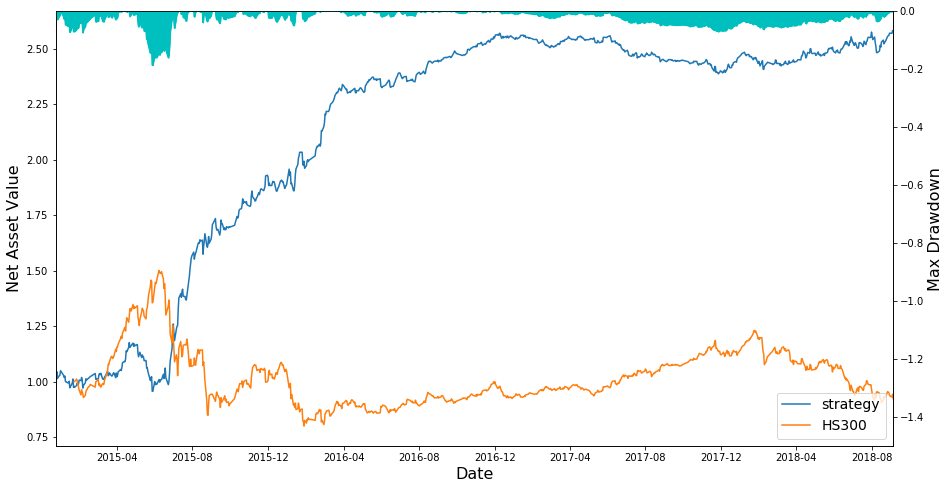
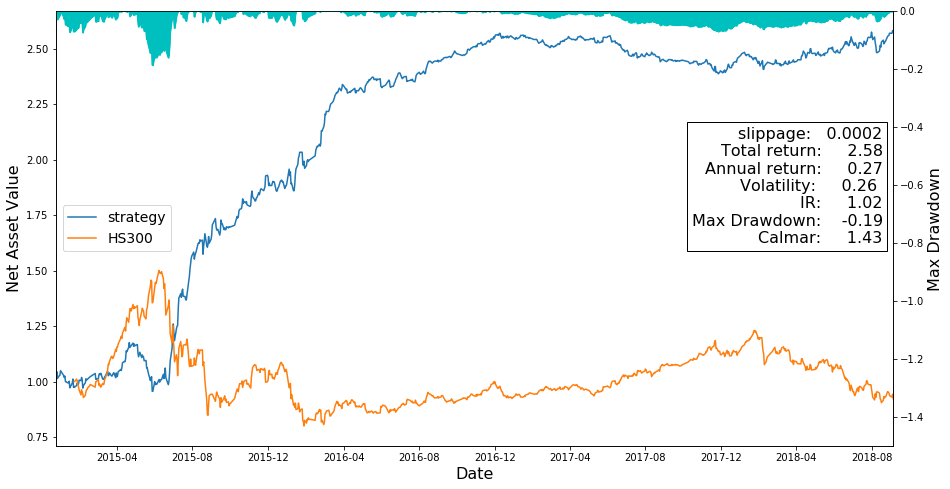
change

Changed region(s): [[0.7021, 0.2454, 0.9463, 0.5215], [0.0611, 0.4294, 0.1832, 0.5215], [0.8242, 0.7975, 0.9463, 0.8896]]

diff --git a/v_svm.py b/v_svm.py
@@ -53,12 +53,7 @@ class SVM():
         #将特征标准化
         for field in attr.columns:
             attr[field] = (attr[field] - attr[field].mean()) / attr[field].std()
-        plt.figure(figsize=(6, 5))
-        sns.heatmap(attr.iloc[:, :-1].corr())
-        plt.xticks(fontsize=12)
-        plt.yticks(fontsize=12)
-        plt.tight_layout()
-        plt.savefig('attr_heatmap.png')
+
         #上涨标记为1，下跌标记为-1
         attr['label'] = np.where(attr['close_open'].shift(-1) > 0, 1, -1)
         
@@ -187,9 +182,15 @@ if __name__ == '__main__':
     SVM.data = data
     hs = SVM(5, 20)
     attr = hs.data_pre()
-
-    years = int(len(data) / 240) + 1
-    paras, nav = hs.cum_retn(years - hs.train_years)
+    plt.figure(figsize=(6, 5))
+    sns.heatmap(attr.iloc[:, :-1].corr())
+    plt.xticks(fontsize=12)
+    plt.yticks(fontsize=12)
+    plt.tight_layout()
+    plt.savefig('attr_heatmap.png')
+    total_years = int(len(data) / 240) + 1
+    years = total_years -  SVM.train_years
+    paras, nav = hs.cum_retn(years)
     def drawdown(nav):
         #计算最大回撤
         dd = []
@@ -198,8 +199,12 @@ if __name__ == '__main__':
             dd.append(min(0, nav[i] - max_i) / max_i)
         return dd
     Drawdown = pd.Series(drawdown(nav), index=nav.index[1:])
-    maxdd = min(Drawdown) 
-    calmar = - (nav[-1]**(1/4) -1) / maxdd 
+    MaxDD = min(Drawdown)
+    Total_return = nav[-1]
+    Ann = Total_return ** (1/years) -1
+    Sigma = nav.std() / (years**(1/2))
+    IR = Ann / Sigma
+    Calmar = - Ann / MaxDD 
     
     fig, ax1 = plt.subplots(figsize=(15, 8))
     ax1.plot(nav, label='strategy')
@@ -208,13 +213,23 @@ if __name__ == '__main__':
     ax1.plot(hs300, label='HS300')
     ax1.set_ylabel('Net Asset Value', fontdict={'fontsize':16})
     ax1.set_xlabel('Date', fontdict={'fontsize':16})
-    ax1.legend(loc='center right', fontsize=16)
+    ax1.legend(loc='center left', fontsize=14)
     ax2 = ax1.twinx()
     ax2.set_ylim(-1.5, 0)
     ax2.plot(Drawdown, color='c')
     ax2.set_ylabel('Max Drawdown', fontdict={'fontsize':16})
     ax2.fill_between(Drawdown.index, Drawdown, color='c')
     ax2.set_ylim(-1.5, 0)
+    words = '''slippage: {:8.4f}
+    Total return: {:8.2f}
+    Annual return: {:8.2f}
+    Volatility: {:8.2f} 
+    IR: {:8.2f}
+    Max Drawdown: {:8.2f}
+    Calmar: {:8.2f}'''.format(hs.slippage, Total_return, Ann, Sigma, IR, MaxDD, Calmar)
+    ax2.text(ax2.get_xbound()[0]+1335, -0.8, words, 
+         fontsize=16, horizontalalignment='right', 
+         bbox=dict(boxstyle='square', fc='white'))
     plt.savefig('v_svm.png', bbox_inches='tight')
     
     for i in range(4):

diff --git a/README.md b/README.md
@@ -101,7 +101,7 @@
 
    总回报是2.58，最大回撤18.67%，calmar比率1.43，远好于指数的表现。
 
-![v_svm](https://github.com/Jensenberg/SVM-and-HS300/blob/master/data/v_svm.png)
+   ![v_svm](https://github.com/Jensenberg/SVM-and-HS300/blob/master/data/v_svm.png)
 
 
 
